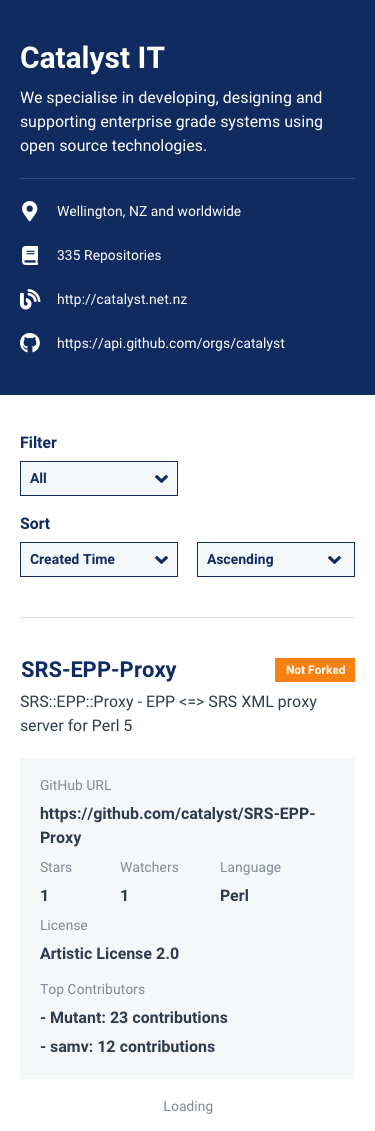
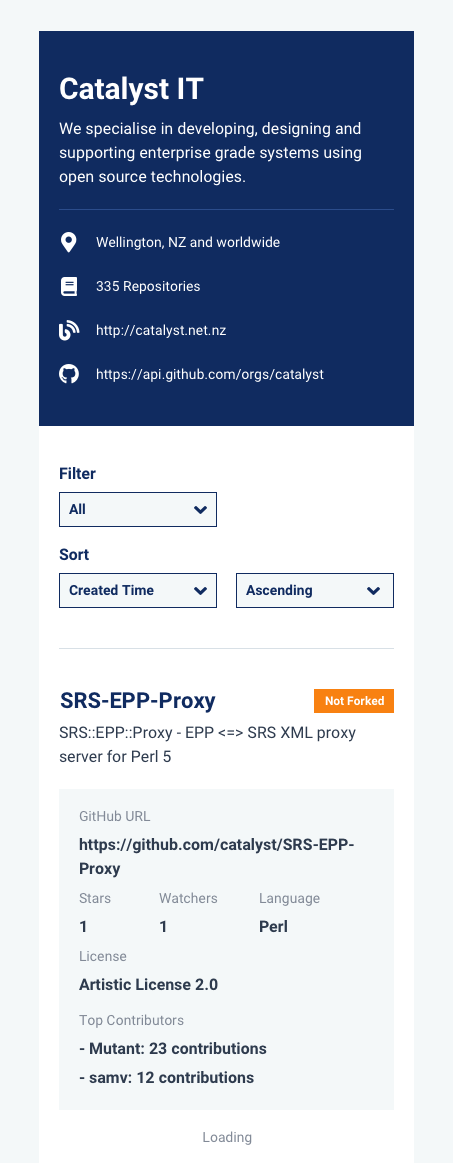
upload image

diff --git a/README.md b/README.md
@@ -5,10 +5,11 @@ Design tool: Sketch
 
 ## 1. Design
 
+![Screenshot of the website:](https://github.com/ryan-xin/catalyst-it-task/blob/main/design/01_catalyst_test_desktop.png)
+![Screenshot of the website:](https://github.com/ryan-xin/catalyst-it-task/blob/main/design/02_catalyst_test_mobile.png)
 
 ## 2. To Do List
 
 - Customize select dropdown style;
 - For mobile layout, fix filter section at the top of the screen;
-- 
 - Meet WCAG 2.1 Level AA guidelines for accessibility;
